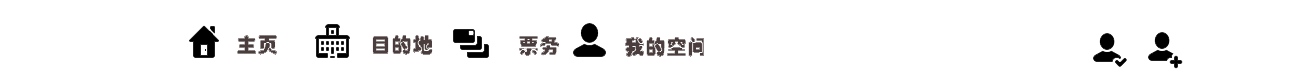
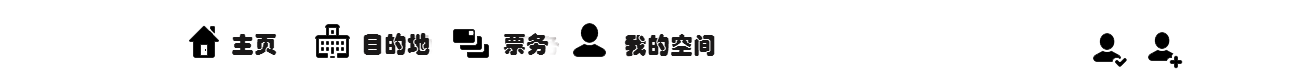
修改css

diff --git a/css/index2.css b/css/index2.css
@@ -77,50 +77,58 @@ this element is the one that *you* will style the most.
 	width: 100px;
 	height: 40px;
 	top: 23px;
-	left: 180px;
+	/*left: 245px;*/
+	left: 185px;
 
 }
 .destination{
 	width: 130px;
 	height: 40px;
 	top: 23px;
+	/*left: 270px;*/
 	left: 210px;
 }
 .ticket{
 	width: 120px;
 	height: 40px;
 	top: 23px;
-	left: 220px;
+	/*left: 275px;*/
+	left: 215px;
 }
 .my_space{
 	width: 150px;
 	height: 40px;
 	top: 23px;
+	/*left: 275px;*/
 	left: 220px;
 }
 .input_username{
 	top:30px;
-	left: 220px;
+	/*left: 275px;*/
+	left: 235px;
 }
 .input_username > input{
-	width: 160px;
+	width: 150px;
+	height: 20px;
 }
 .input_password{
 	top:30px;
-	left: 230px;
+	/*left: 285px;*/
+	left: 245px;
 }
 .input_password > input{
-	width: 160px;
+	width: 150px;
+	height: 20px;
 }
 .login{
 	width: 40px;
 	height: 40px;
 	top: 30px;
-	left: 242px;
+	left: 300px;
 }
 .register{
 	width: 40px;
 	height: 40px;
 	top: 30px;
-	left: 257px;
+	left: 315px;
 }

diff --git a/css/qiye_index.css b/css/qiye_index.css
@@ -1,6 +1,7 @@
 body{
 	overflow: scroll; 
-	background-color: #cce1fc;
+	/*background-color: #cce1fc;*/
+	background-color: #fffcfe;
 	/*background-image: url(../img/bg2.jpg);*/
 	background-size: cover;
 	height: 100%; 
@@ -13,15 +14,14 @@ body{
 	/*background-image: url(http://image.xinli001.com/20121106/09155481d07eddc284ae7e.jpg); */
 	
 }
-.main_frame{
-	background-color: white;
+/*.main_frame{
 	border-radius: 5px;
 	padding: 5px;
-/*	border: 2px;
+	border: 2px;
 	border-color: black;
-	border-style: solid;*/
+	border-style: solid;
 	overflow: 
-}
+}*/
 #left_bar{
 	height: 700px;
 	border-style: solid;

diff --git a/css/register.css b/css/register.css
@@ -1,6 +1,7 @@
 body{
 	overflow: scroll; 
-	background-color: #cce1fc;
+	/*background-color: #cce1fc;*/
+	background-color: #fffcfe;
 	/*background-image: url(../img/bg2.jpg);*/
 	background-size: cover;
 	height: 100%; 
@@ -13,12 +14,11 @@ body{
 	/*background-image: url(http://image.xinli001.com/20121106/09155481d07eddc284ae7e.jpg); */
 	
 }
-.main_frame{
+/*.main_frame{
 	background-color: white;
 	border-radius: 5px;
 	padding: 5px;
-	/*text-align: center;*/
-}
+}*/
 #left_bar{
 	height: 700px;
 	border-style: solid;

diff --git a/css/youji.css b/css/youji.css
@@ -1,6 +1,7 @@
 body{
 	overflow: scroll; 
-	background-color: #cce1fc;
+	/*background-color: #cce1fc;*/
+	background-color: #fffcfe;
 	height: 100%; 
 	width: 100%;
 	left: 0px;
@@ -48,7 +49,7 @@ body{
 	font-weight: bold;
 	height: 100px;
 }
-.main{
+/*.main{
 	border-radius: 5px;
 	background-color: white;
-}
+}*/

diff --git a/css/youhui.css b/css/youhui.css
@@ -1,6 +1,7 @@
 body{
 	overflow: scroll; 
-	background-color: #cce1fc;
+	/*background-color: #cce1fc;*/
+	background-color: #fffcfe;
 	height: 100%; 
 	width: 100%;
 	left: 0px;
@@ -68,7 +69,7 @@ body{
 .article{
 	height: 400px;
 }
-.main{
+/*.main{
 	border-radius: 5px;
 	background-color: white;
-}
+}*/

diff --git a/css/destination_index.css b/css/destination_index.css
@@ -1,6 +1,7 @@
 body{
 	overflow: scroll; 
-	background-color: #e2e2e2;
+	/*background-color: #e2e2e2;*/
+	background-color: #fffcfe;
 	height: 100%; 
 	width: 100%;
 	left: 0px;

diff --git a/css/plan.css b/css/plan.css
@@ -1,6 +1,7 @@
 body{
 	overflow: scroll; 
-	background-color: #cce1fc;
+	/*background-color: #cce1fc;*/
+	background-color: #fffcfe;
 	height: 100%; 
 	width: 100%;
 	left: 0px;

diff --git a/css/ticket.css b/css/ticket.css
@@ -1,6 +1,7 @@
 body{
 	overflow: scroll; 
-	background-color: #cce1fc;
+	/*background-color: #cce1fc;*/
+	background-color: #fffcfe;
 	height: 100%; 
 	width: 100%;
 	left: 0px;

diff --git a/javascript/index2.js b/javascript/index2.js
@@ -3,4 +3,5 @@ $(document).ready(function(){
 	  // initialize scrollable
 	  $(".scrollable").scrollable();
 	});
+	
 });
